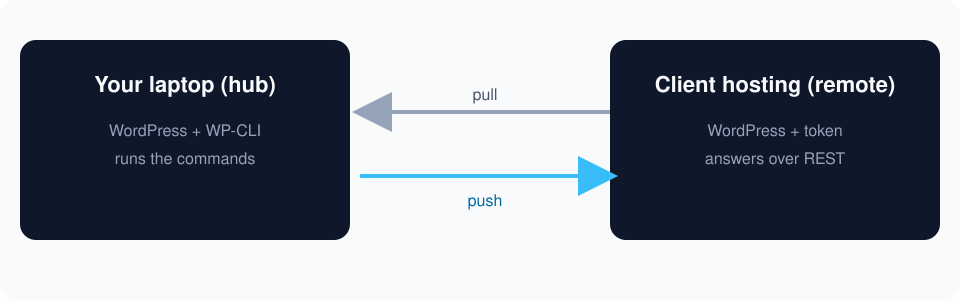
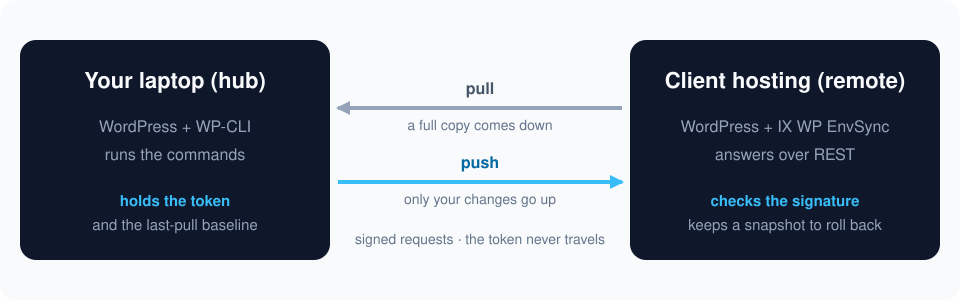
docs: redraw the hub-remote and three-way diagrams

diff --git a/CHANGELOG.md b/CHANGELOG.md
@@ -5,6 +5,7 @@ All notable changes to IX WP EnvSync. Versions follow the plugin header. Release
 
 ## 0.9.19 — 2026-10-20
 - Documentation and branding assets: logo, icons, banners, diagrams, screenshots, LICENSE, CONTRIBUTING.
+- Redrawn diagrams: aligned arrows, a joined three-way merge, and what each side holds.
 - CI actions moved to Node 24 releases.
 - No change to plugin behaviour.
 
